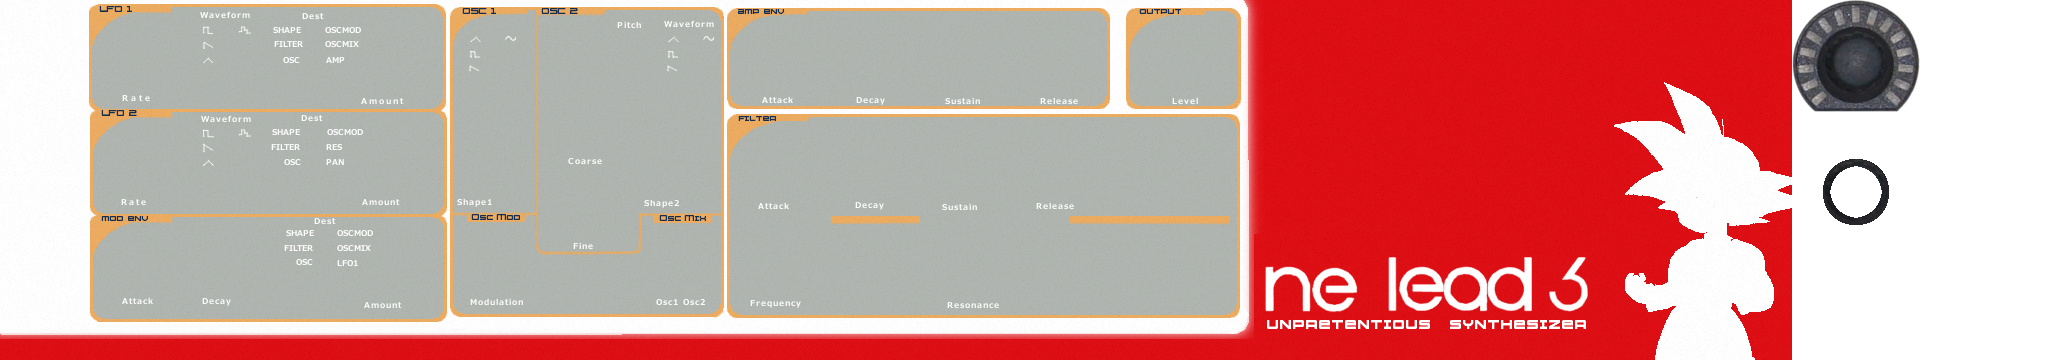
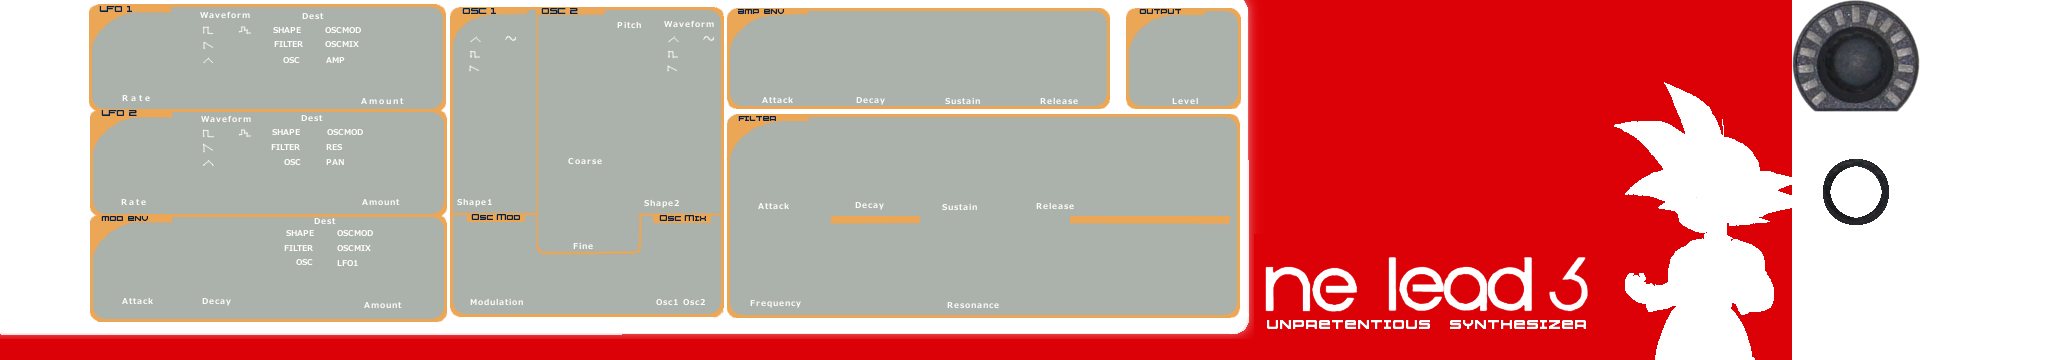
Ajout du titre
Former-commit-id: 0faae98c17e40ab0d35c93c365047cdc479a8c5d

Changed region(s): [[0.0, 0.8861, 0.75, 0.9472], [0.5938, 0.0, 0.625, 0.6417], [0.5938, 0.7333, 0.625, 0.825]]

diff --git a/src/main.cpp b/src/main.cpp
@@ -86,10 +86,11 @@ int main(int argc, char** argv)
   float viewPortMax_x=clientWinSize_x/(float)window.getSize().x;
   float viewPortMax_y=clientWinSize_y/(float)window.getSize().y;
   
-  sf::Texture backTexture;
+  sf::Texture backTexture, titleTexture;
   backTexture.loadFromFile("img/sangoten_back.bmp");
+  titleTexture.loadFromFile("img/titre.png");
   
-  sf::Sprite backSprite(backTexture);
+  sf::Sprite backSprite(backTexture), titleSprite(titleTexture);
   backSprite.setOrigin(205,423);
   backSprite.setPosition(window.getSize().x,window.getSize().y);
   //window.setFramerateLimit(Signal::refreshRate*1.5f);
@@ -352,6 +353,7 @@ int main(int argc, char** argv)
     window.setView(winView);
     window.draw(backSprite);
     window.draw(resizeTriangle);
+    window.draw(titleSprite);
     
     for (unsigned int i =0; i < _interfaces.size(); i++)
     {
